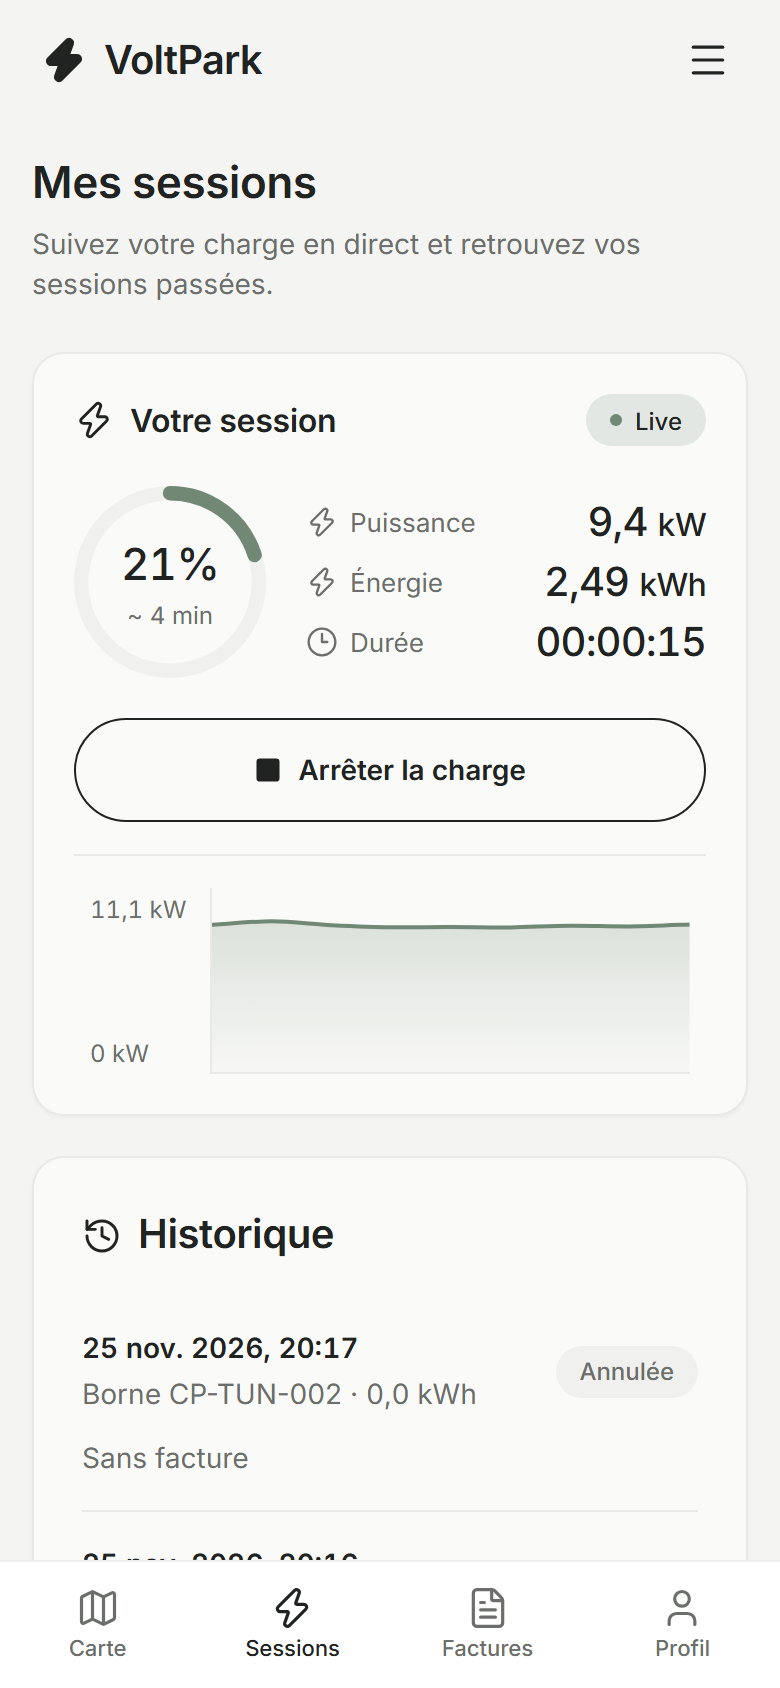
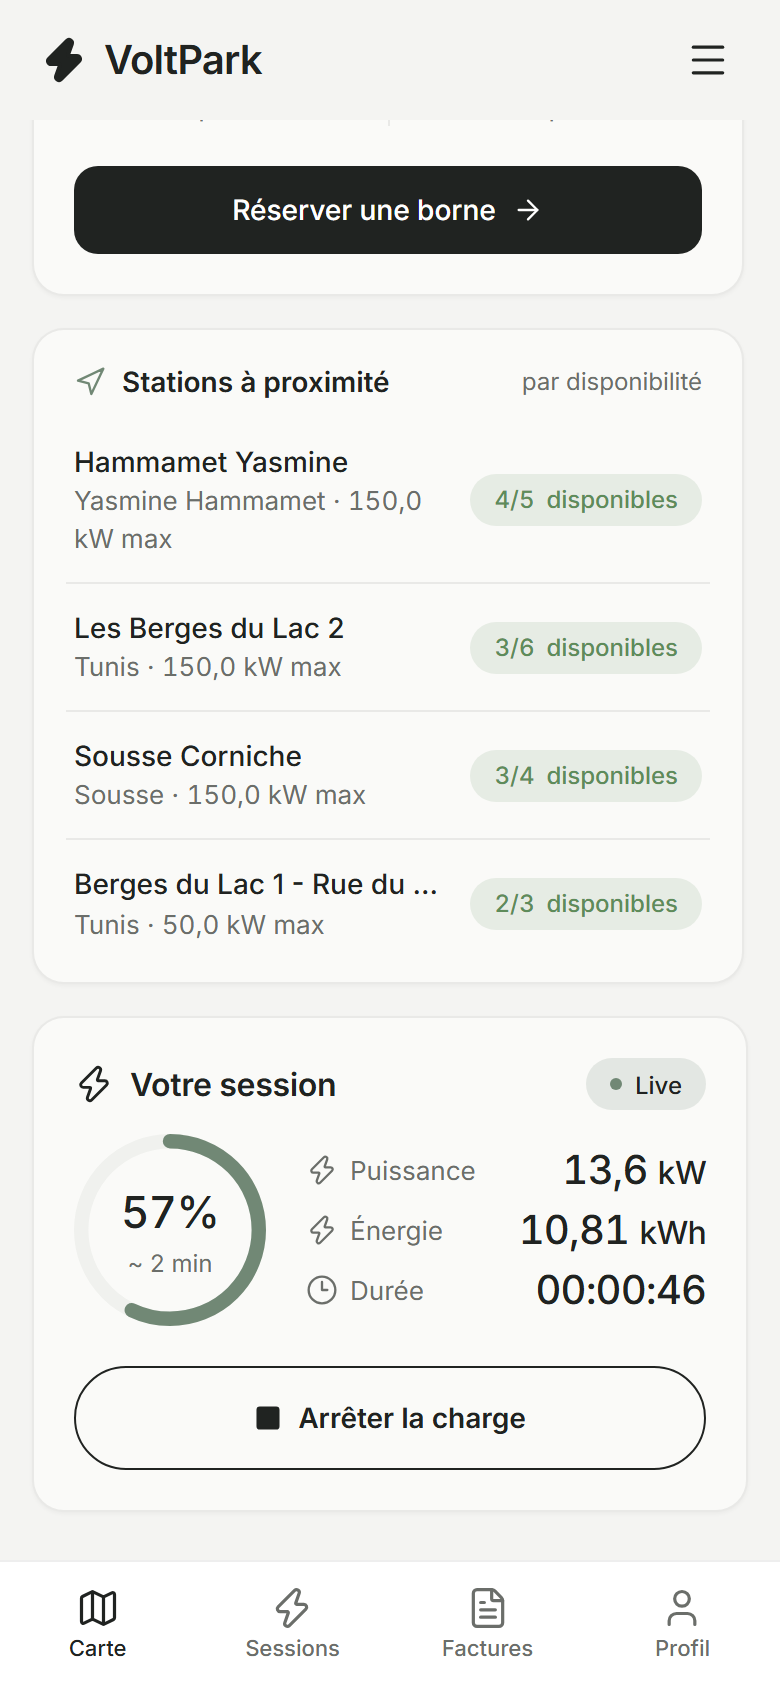
docs(frontend): update screenshots
Dashboard at 1920x1080, 1440x900 and 390x844 with and without a live session, plus sessions, reservations, invoices, invoice detail and pending start. README: new pages, basemap and demo data notes.

diff --git a/README.md b/README.md
@@ -145,16 +145,16 @@ docker run --rm -v "$PWD/api-gateway:/app" -w /app maven:3.9-eclipse-temurin-17 
 
 Application web du conducteur (`frontend/`) : React 19, TypeScript, Vite, React Router, carte Leaflet (react-leaflet) et icônes lucide-react. Elle n'appelle que l'API Gateway.
 
-![Carte et session en direct](docs/screenshots/carte.png)
+![Tableau de bord : carte, station et vue d’ensemble](docs/screenshots/carte.png)
 
 **Pages**
 
 | Page | Rôle |
 |---|---|
-| Carte (`/`) | Carte OpenStreetMap avec une épingle par station (épingle sélectionnée en vert sauge) et sa bulle « Nom · X disponibles », bouton de localisation, fiche de la station (bornes totales, disponibles, occupées, liste des bornes, « Réserver une borne ») et, en dessous, la session en cours. Le champ « Rechercher une station… » filtre les stations. |
-| Réservations | Choix de la station, de la borne et du créneau ; les erreurs de validation de l'API s'affichent sous chaque champ. Liste des réservations à venir avec « Démarrer la charge » (`POST /sessions`) et « Annuler » (`DELETE`, 204). |
-| Mes sessions | Session en direct : anneau de batterie et temps restant, puissance, énergie, durée, « Arrêter la charge » (`PATCH /sessions/{id}` `{"status":"STOPPED"}`, puis ouverture de la facture) et graphique de puissance des 120 dernières mesures. Session `PENDING_START` : « Réessayer le démarrage » (`POST /sessions/{id}/start-attempts`) ou « Annuler ». Historique paginé avec lien vers chaque facture. |
-| Factures | Liste et détail (kWh heures pleines / creuses, prix, frais d'occupation, total). Facture `PENDING_ENERGY` : « Recalculer ». |
+| Carte (`/`) | Tableau de bord plein écran. Carte de toutes les stations (épingles avec le nombre de bornes disponibles, sélection en vert sauge, bulle « Nom · X/Y disponibles », légende, localisation et zoom). À droite : fiche de la station (tarifs heures pleines / creuses, puissance max, bornes avec connecteur et statut, « Réserver une borne ») et stations à proximité. En bas : la session en direct, ou une vue d’ensemble (énergie, dépenses, sessions et CO₂ évité du mois, énergie des 7 derniers jours, dernière session, démarrage depuis la prochaine réservation). Le champ « Rechercher une station… » filtre les stations ; la cloche signale les démarrages et factures en attente. |
+| Réservations | Indicateurs (à venir, en cours, terminées, annulées), choix de la station, de la borne et du créneau ; les erreurs de validation de l'API s'affichent sous chaque champ. Tableau des réservations avec « Démarrer la charge » (`POST /sessions`) et « Annuler » (`DELETE`, 204). |
+| Mes sessions | Session en direct : anneau de batterie et temps restant, puissance, énergie, durée, « Arrêter la charge » (`PATCH /sessions/{id}` `{"status":"STOPPED"}`, puis ouverture de la facture) et graphique de puissance des 120 dernières mesures. Session `PENDING_START` : « Réessayer le démarrage » (`POST /sessions/{id}/start-attempts`) ou « Annuler ». Indicateurs du mois et historique paginé (tableau avec durée, énergie, statut, montant, facture). |
+| Factures | Indicateurs (dépenses du mois, payées, à régler, énergie), tableau des factures et détail (kWh heures pleines / creuses, prix, frais d'occupation, total, session facturée). Facture `PENDING_ENERGY` : « Recalculer ». |
 | Paramètres (Profil sur mobile) | Choix ou création du conducteur. Il n'y a pas encore d'authentification : le conducteur choisi est retenu dans le navigateur (localStorage). |
 
 Sur téléphone (moins de 768 px), la barre latérale est remplacée par un en-tête (logo et menu) et une barre d'onglets en bas : Carte, Sessions, Factures, Profil.
@@ -177,9 +177,11 @@ VITE_API_BASE_URL=http://localhost:8080/api/v1 npm run dev     # http://localhos
 
 **Autres commandes** : `npm test` (Vitest + Testing Library), `npm run build`, `npm run gen:api` (régénère `src/api/schema.d.ts` à partir de `openapi.yaml` de session-service avec openapi-typescript ; le générateur a besoin de l'API de TypeScript 5, il est donc lancé avec `npx` dans un environnement séparé, le projet restant en TypeScript 7).
 
-**Fonds de carte.** Les tuiles viennent des serveurs OpenStreetMap (attribution affichée en bas de la carte) et demandent un accès à Internet ; les noms de lieux sont ceux d'OpenStreetMap (en arabe et en français à Tunis). Sans accès aux tuiles, la page affiche à la place la liste des stations.
+**Fonds de carte.** Fond clair Esri World Light Gray Canvas (attribution affichée en bas de la carte), sans clé d'API ; CARTO Positron demande désormais une clé. Une autre source peut être choisie au build avec `VITE_MAP_TILES_URL` et `VITE_MAP_TILES_ATTRIBUTION`. Les tuiles demandent un accès à Internet : sans elles, la page affiche la liste des stations. Les épingles trop proches à un niveau de zoom sont écartées en cercle (chaque station garde son épingle).
 
-**Captures d'écran** (`docs/screenshots/`) : `carte.png`, `reservation.png`, `session-live.png`, `facture.png`, `pending-start.png`, `mobile.png`, `mobile-session.png`.
+**Données de démonstration.** Au premier démarrage (bases vides), session-service et charger-gateway-service créent 10 stations (Grand Tunis, Sousse, Sfax, Nabeul, Hammamet) et 35 bornes avec les mêmes identifiants, 4 conducteurs (`TAG-BLOCKED` est refusé par les bornes), des sessions et factures sur les 7 derniers jours et quelques réservations. Pour repartir de ces données : `docker compose down -v`.
+
+**Captures d'écran** (`docs/screenshots/`) : tableau de bord sans session (`carte.png` en 1920 × 1080, `carte-1440.png`, `carte-mobile.png`) et avec une session en direct (`carte-live.png`, `carte-live-1440.png`, `carte-live-mobile.png`, `mobile-session.png`), `session-live.png`, `sessions.png`, `reservation.png`, `factures.png`, `facture.png`, `pending-start.png`.
 
 ## Répartition des tâches
 
